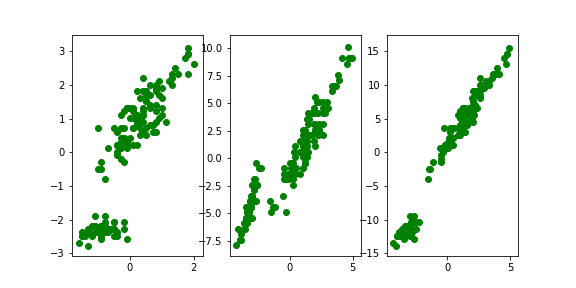
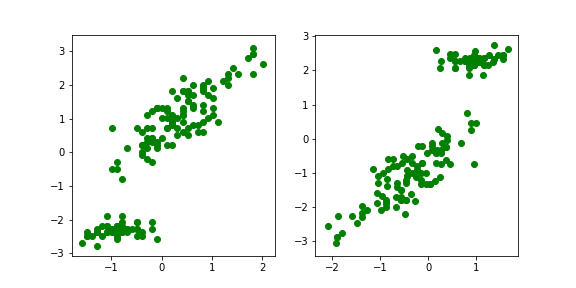
xD

diff --git a/lab_04/zadanie_4_03.py b/lab_04/zadanie_4_03.py
@@ -1,4 +1,5 @@
 import fun_mac
+import math
 
 def wczytanie():
     table = []
@@ -11,56 +12,85 @@ def wczytanie():
     table = fun_mac.transpose_m(table)
     return table
 
-def zapis(A, C, C2):
+def zapis(A, C):
     import matplotlib.pylab as plt
     plt.figure(figsize=[8, 4], dpi=72)
-    plt.subplot(1, 3, 1)
-    for i in range(len(A)):
-        plt.scatter(A[i][0], A[i][1], color="green")
-    plt.subplot(1, 3, 2)
-    for i in range(len(C)):
-        plt.scatter(C[i][0], C[i][1], color="green")
-    plt.subplot(1, 3, 3)
-    for i in range(len(C2)):
-        plt.scatter(C2[i][0], C2[i][1], color="green")
+    plt.subplot(1, 2, 1)
+    for i in range(len(A[0])):
+        plt.scatter(A[0][i], A[1][i], color="green")
+    plt.subplot(1, 2, 2)
+    for i in range(len(C[0])):
+        plt.scatter(C[0][i], C[1][i], color="green")
+
     plt.savefig("output1.png")
 
-def mnoz(A, B):
-    C = [ [0] * len(A[0]) for i in range(len(A)) ]
+def mnoz(B, A):
+    C = [ [0] * len(A[0]) for i in range(len(B)) ]
 
-    for i in range(len(A)):
+    for i in range(len(B)):
         for j in range(len(A[0])):
-            for k in range(len(A[0])):
-                C[i][j] += A[i][k]*B[k][j]
-
+            for k in range(len(B)):
+                C[i][j] += B[i][k]*A[k][j]
     return C
 
 def wycentrowanie(A):
     srx = 0
     sry = 0
-    for i in range(len(A)):
-        srx += A[i][0]
-        sry += A[i][1]
+    for i in range(len(A[0])):
+        srx += A[0][i]
+        sry += A[1][i]
     srx, sry = srx/i, sry/i
 
-    for i in range(len(A)):
-        A[i][0] -= srx
-        A[i][1] -= sry
+    for i in range(len(A[0])):
+        A[0][i] -= srx
+        A[1][i] -= sry
 
-t = fun_mac.transpose_m(wczytanie())
-A = [ [0, 0] for i in range(len(t)) ]
+def obrot(theta):
+    return [ [math.cos(theta), -math.sin(theta)], [math.sin(theta), math.cos(theta)] ]
 
-for i in range(len(t)):
-    for j in range(2):
-        A[i][j] = t[i][2*j]
+def obrazek():
+    B = obrot(math.pi / 3)
+
+    C = mnoz(B, A)
+
+    B1 = [[5, 0], [0, 5]]
+    C1 = mnoz(B1, A)
+
+    zapis(A, C, C1)
+
+def wariancja(x):
+    sr = 0
+    for i in range(len(x)):
+        sr += x[i]
+    sr /= (i+1)
+
+    war = 0
+    for i in range(len(x)):
+        war += (x[i]-sr)**2
+    war /= len(x)
+
+    return war
+
+t = wczytanie()
+
+A = [ [0] * len(t[0]) for i in range(2) ]
+
+for i in range(2):
+    for j in range(len(t[0])):
+        A[i][j] = t[2*i][j]
 
 wycentrowanie(A)
 
-B = [ [1, 5], [1, 0] ]
+#obrazek()
 
-C = mnoz(A, B)
+k = 100
+war = []
+for i in range(k):
+    the = i*math.pi/k
 
-B = [ [1, 0], [1, 5] ]
-C2 = mnoz(A, B)
+    B = obrot(the)
 
-zapis(A, C, C2)
+    C = mnoz(B, A)
+    war.append(wariancja(C[0]))
+
+zapis(A, war)

diff --git a/lab_04/fun_mac.py b/lab_04/fun_mac.py
@@ -23,7 +23,8 @@ def print_m(A, d = None, f = None):
          wydrukuje maksymalnie taka ilosc znakow w kazdej komurce
     Funkcja dostosowuje dlugosci wartosci w macierzy
     """
-    t = copy_m(A)
+    import copy
+    t = copy.deepcopy(A)
 
     if d != None:
         for i in range(len(A)):

diff --git a/lab_04/TEST.py b/lab_04/TEST.py
@@ -1,4 +1,2 @@
-t = [1, 2, 3]
-
-print(str(t))
-print(len(str(t)))
+import math
+print(math.cos(90))
